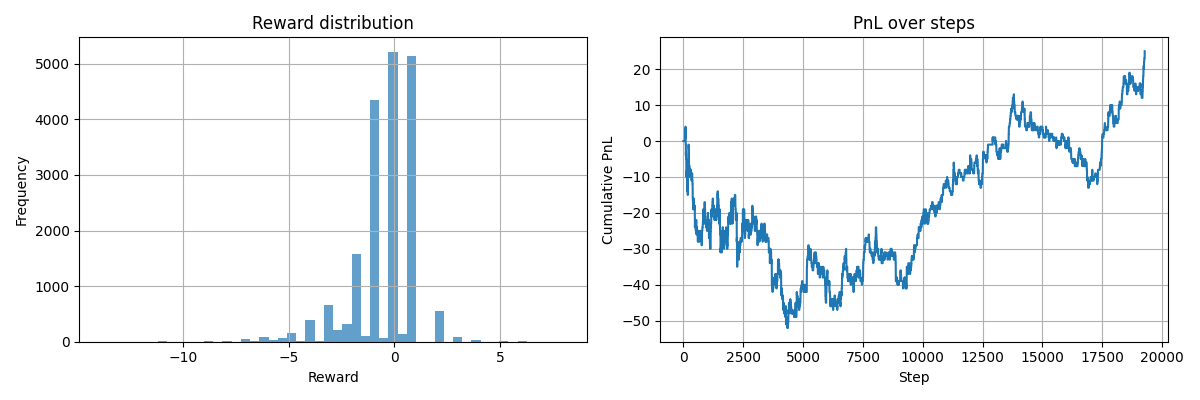
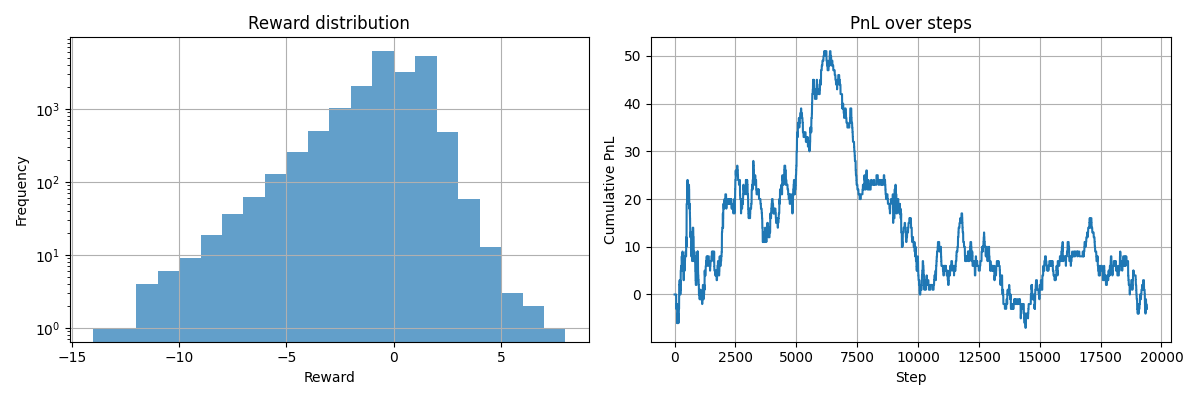
update

diff --git a/smoke_test_20250913.py b/smoke_test_20250913.py
@@ -5,7 +5,7 @@ import matplotlib.pyplot as plt
 from modules.trading_env_20250913 import TradingEnv
 
 # ===== # 過去のティックデータ =====
-file_excel = "excel/tick_20250819.xlsx"
+file_excel = "excel/tick_20250828.xlsx"
 df = pd.read_excel(file_excel)
 print(df)
 
@@ -33,23 +33,22 @@ print(
 )
 
 # ===== 可視化 =====
-fig, axes = plt.subplots(1, 2, figsize=(12, 4))
+fig, ax = plt.subplots(1, 2, figsize=(12, 4))
 
 # 報酬分布
-axes[0].hist(rewards, bins=50, alpha=0.7)
-# axes[0].hist(rewards, alpha=0.7)
-axes[0].set_title("Reward distribution")
-axes[0].set_xlabel("Reward")
-axes[0].set_ylabel("Frequency")
-# axes[0].set_yscale("log")
-axes[0].grid()
+ax[0].hist(rewards, bins=int(max(rewards) - min(rewards) + 0.5), alpha=0.7)
+ax[0].set_title("Reward distribution")
+ax[0].set_xlabel("Reward")
+ax[0].set_ylabel("Frequency")
+ax[0].set_yscale("log")
+ax[0].grid()
 
 # PnL 推移
-axes[1].plot(pnls)
-axes[1].set_title("PnL over steps")
-axes[1].set_xlabel("Step")
-axes[1].set_ylabel("Cumulative PnL")
-axes[1].grid()
+ax[1].plot(pnls)
+ax[1].set_title("PnL over steps")
+ax[1].set_xlabel("Step")
+ax[1].set_ylabel("Cumulative PnL")
+ax[1].grid()
 
 plt.tight_layout()
 plt.show()
